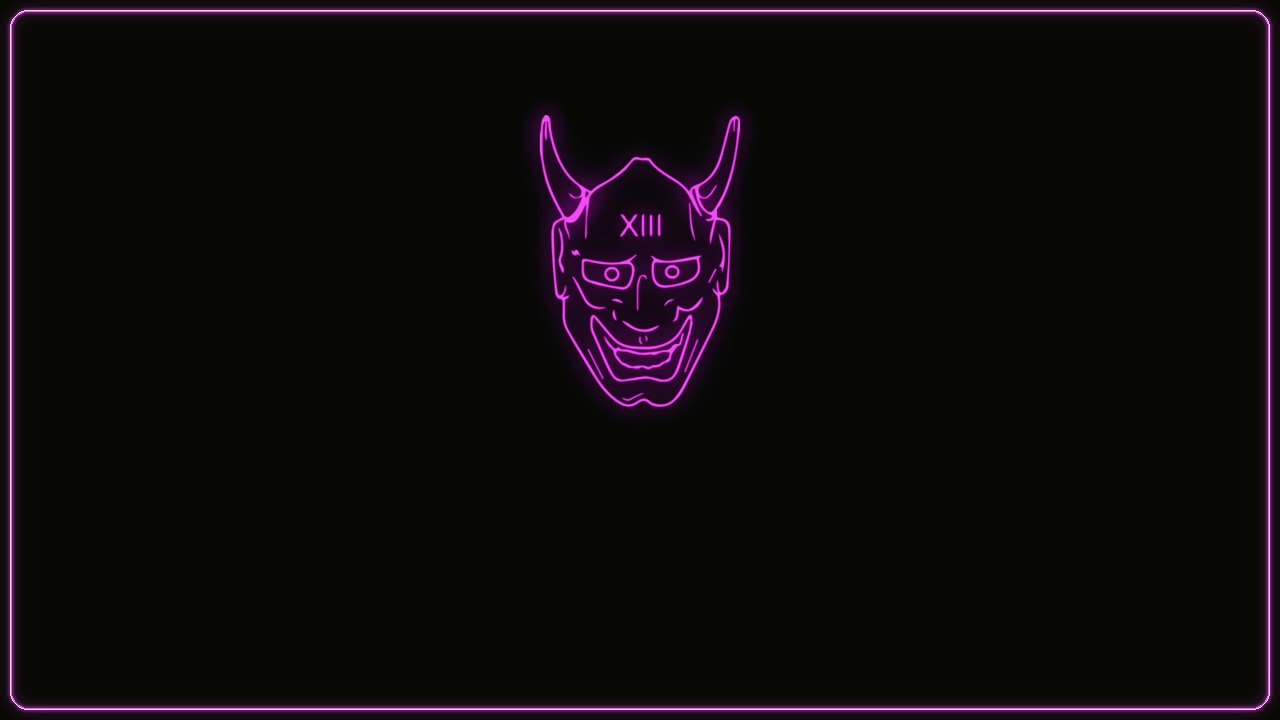
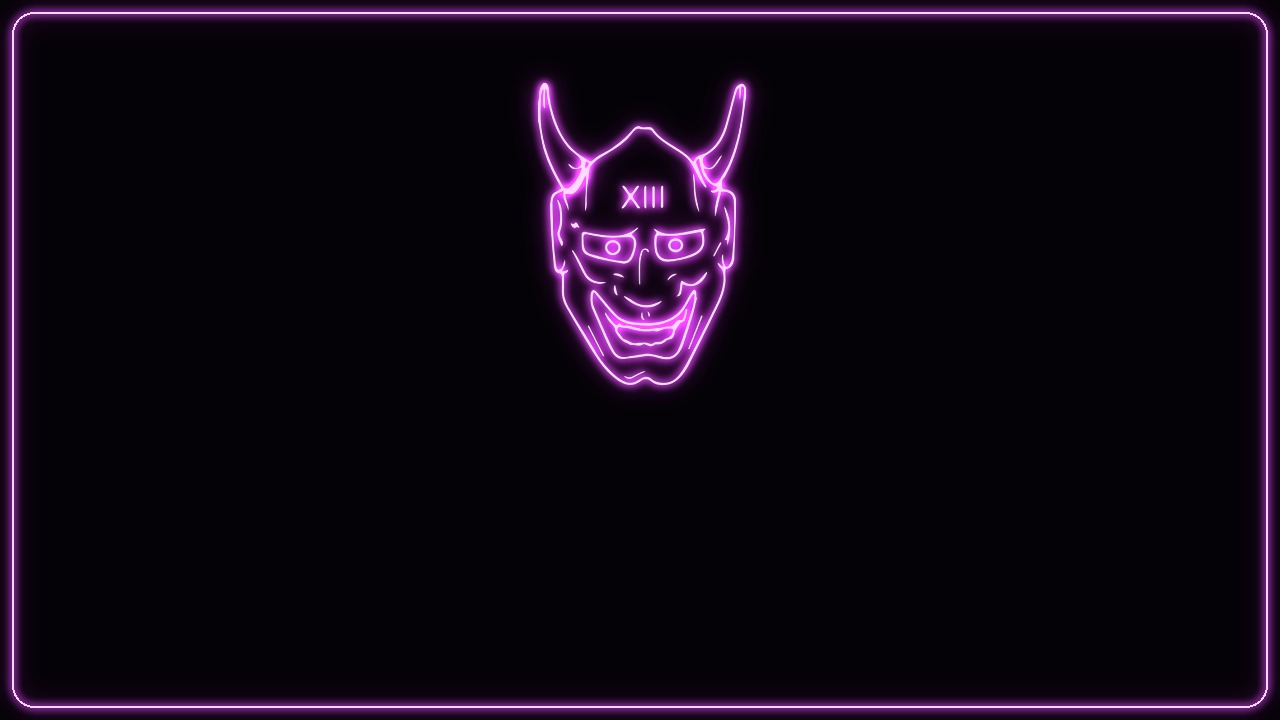
Launcher (fork): app_cards, plain named tiles; neon pills and focus after the three-layer rule
app_cards draws a tile as a flat colour with the app's name instead of its banner. With neon_color the pills
are dark with a thin neon edge, the focus glass loses its white sheen for a near-white tube, and the clock
gets a near-white core. The Ergo wallpaper is the mask's line only, near-white with a #D946EF glow.

Claude-Session: https://claude.ai/code/session_01XGgUyPyqoT6nJXhKqcCALF

Changed region(s): [[0.0, 0.0, 1.0, 1.0], [0.4062, 0.0917, 0.5938, 0.5806]]

diff --git a/launcher/app/src/main/java/com/gathin/tvhome/MainActivity.java b/launcher/app/src/main/java/com/gathin/tvhome/MainActivity.java
@@ -30,7 +30,6 @@ import android.graphics.drawable.BitmapDrawable;
 import android.graphics.drawable.ColorDrawable;
 import android.graphics.drawable.Drawable;
 import android.graphics.drawable.GradientDrawable;
-import android.graphics.drawable.LayerDrawable;
 import android.media.tv.TvContract;
 import android.media.tv.TvInputInfo;
 import android.media.tv.TvInputManager;
@@ -828,20 +827,30 @@ public class MainActivity extends Activity implements AppAdapter.TileListener {
         if (neon != 0) {
             int rgb = neon & 0xFFFFFF;
             // The tube's core is the colour lifted towards white; the glow round it is the colour itself.
-            int r = (((rgb >> 16) & 0xFF) + 255) / 2, g = (((rgb >> 8) & 0xFF) + 255) / 2, b = ((rgb & 0xFF) + 255) / 2;
-            clock.setTextColor(0xFF000000 | (r << 16) | (g << 8) | b);
-            clock.setShadowLayer(9 * density, 0, 0, 0xCC000000 | rgb);
+            // The tube: a near-white core, its colour only in the glow round it.
+            clock.setTextColor(0xFFFFF0FF);
+            clock.setShadowLayer(10 * density, 0, 0, 0xFF000000 | rgb);
             glass.setBaseAccent(neon);
+            // Pills: dark glass with a thin neon edge; focused, a near-white tube with a faint tint inside.
+            ColorStateList white = ColorStateList.valueOf(0xF2FFFFFF);
             for (int id : new int[]{R.id.btnInputs, R.id.btnWifi, R.id.btnSettings, R.id.btnReorder, R.id.btnLibraryTop}) {
                 View v = findViewById(id);
-                if (v == null) continue;
-                GradientDrawable rim = new GradientDrawable();
-                rim.setShape(GradientDrawable.RECTANGLE);
-                rim.setCornerRadius(21 * density);
-                rim.setColor(0);
-                rim.setStroke(Math.max(1, Math.round(density)), 0x80000000 | rgb);
-                Drawable bg = v.getBackground();
-                v.setBackground(bg == null ? rim : new LayerDrawable(new Drawable[]{bg, rim}));
+                if (!(v instanceof TextView)) continue;
+                GradientDrawable focusedBg = new GradientDrawable();
+                focusedBg.setCornerRadius(21 * density);
+                focusedBg.setColor(0x40000000 | rgb);
+                focusedBg.setStroke(Math.max(1, Math.round(1.5f * density)), 0xFFFFE4FF);
+                GradientDrawable plain = new GradientDrawable();
+                plain.setCornerRadius(21 * density);
+                plain.setColor(0xD90A040E);
+                plain.setStroke(Math.max(1, Math.round(density)), 0x80000000 | rgb);
+                android.graphics.drawable.StateListDrawable states = new android.graphics.drawable.StateListDrawable();
+                states.addState(new int[]{android.R.attr.state_focused}, focusedBg);
+                states.addState(new int[]{android.R.attr.state_activated}, focusedBg);
+                states.addState(new int[]{}, plain);
+                v.setBackground(states);
+                ((TextView) v).setTextColor(white);
+                ((TextView) v).setCompoundDrawableTintList(white);
             }
         }
         weatherPanelView = findViewById(R.id.weatherPanel);

diff --git a/launcher/app/src/main/java/com/gathin/tvhome/AppAdapter.java b/launcher/app/src/main/java/com/gathin/tvhome/AppAdapter.java
@@ -208,6 +208,9 @@ public class AppAdapter extends RecyclerView.Adapter<RecyclerView.ViewHolder> {
     private final boolean tileMenu;
     /** Tile names and bundled banners that replace the app's own (config.xml, app_labels and app_banners). */
     private final Map<String, String> appLabels, appBanners;
+    /** Ergo fork: app_cards, package -> colour of a plain named tile (TextBannerDrawable). */
+    private final Map<String, Integer> appCards;
+    private android.graphics.Typeface cardFont;
     private final List<Entry> items = new ArrayList<>();
 
     AppAdapter(Context ctx, TileListener listener, int dockSize, Config cfg) {
@@ -233,6 +236,7 @@ public class AppAdapter extends RecyclerView.Adapter<RecyclerView.ViewHolder> {
         this.tileMenu = cfg.tileMenu;
         this.appLabels = cfg.appLabels;
         this.appBanners = cfg.appBanners;
+        this.appCards = cfg.appCards;
         // Tiles keep their identity across reload(), so a focused tile stays on its app instead of
         // its view being rebound to whatever app now sits in that slot.
         setHasStableIds(true);
@@ -281,7 +285,8 @@ public class AppAdapter extends RecyclerView.Adapter<RecyclerView.ViewHolder> {
             String label = card != null ? card.label : Cards.cleanLabel(
                     appLabels.containsKey(pkg) ? appLabels.get(pkg) : String.valueOf(ri.loadLabel(pm)), pkg);
             if (!seen.add(pkg + '\n' + label)) continue;
-            Drawable banner = bundledBanner(appBanners.get(pkg));
+            Drawable banner = appCards.containsKey(pkg) ? textBanner(appCards.get(pkg), label) : null;
+            if (banner == null) banner = bundledBanner(appBanners.get(pkg));
             if (banner == null) banner = loadBanner(pm, ri);
             // The icon is only drawn (and sampled for the glow) when there is no banner, so a tile with a
             // banner skips loading and decoding it.
@@ -324,6 +329,17 @@ public class AppAdapter extends RecyclerView.Adapter<RecyclerView.ViewHolder> {
         items.clear();
         items.addAll(fresh);
         notifyDataSetChanged();
+    }
+
+    private Drawable textBanner(int color, String label) {
+        if (cardFont == null) {
+            try {
+                cardFont = ctx.getResources().getFont(R.font.outfit_medium);
+            } catch (RuntimeException e) {
+                cardFont = android.graphics.Typeface.DEFAULT_BOLD;
+            }
+        }
+        return new TextBannerDrawable(color, label, cardFont);
     }
 
     /** A banner_* drawable bundled with the launcher, or null for none or a name that is not one. */

diff --git a/launcher/app/src/main/java/com/gathin/tvhome/TextBannerDrawable.java b/launcher/app/src/main/java/com/gathin/tvhome/TextBannerDrawable.java
@@ -1,0 +1,69 @@
+package com.gathin.tvhome;
+
+import android.graphics.Canvas;
+import android.graphics.ColorFilter;
+import android.graphics.Paint;
+import android.graphics.PixelFormat;
+import android.graphics.Rect;
+import android.graphics.Typeface;
+import android.graphics.drawable.Drawable;
+
+/**
+ * Ergo fork (theme key app_cards): a calm tile in place of an app's own banner, a flat colour with the app's
+ * name in white, centred. Banners clash (a white YouTube slab, a noisy OTT picture); these keep the dock even.
+ * Drawn at banner proportions (16:9), so the tile's centreCrop scales it like a real banner.
+ */
+final class TextBannerDrawable extends Drawable {
+
+    static final int W = 320, H = 180;
+
+    private final int color;
+    private final String text;
+    private final Paint paint = new Paint(Paint.ANTI_ALIAS_FLAG);
+
+    TextBannerDrawable(int color, String text, Typeface typeface) {
+        this.color = color | 0xFF000000;
+        this.text = text;
+        paint.setColor(0xFFFFFFFF);
+        paint.setTextAlign(Paint.Align.CENTER);
+        if (typeface != null) paint.setTypeface(typeface);
+    }
+
+    @Override
+    public void draw(Canvas c) {
+        Rect b = getBounds();
+        c.drawColor(color);
+        // The name fills at most 80% of the width, at a size that reads at 3 m on a 32" set.
+        float size = b.height() * 0.2f;
+        paint.setTextSize(size);
+        float w = paint.measureText(text);
+        if (w > b.width() * 0.8f) paint.setTextSize(size * b.width() * 0.8f / w);
+        Paint.FontMetrics fm = paint.getFontMetrics();
+        c.drawText(text, b.exactCenterX(), b.exactCenterY() - (fm.ascent + fm.descent) / 2f, paint);
+    }
+
+    @Override
+    public int getIntrinsicWidth() {
+        return W;
+    }
+
+    @Override
+    public int getIntrinsicHeight() {
+        return H;
+    }
+
+    @Override
+    public void setAlpha(int alpha) {
+        paint.setAlpha(alpha);
+    }
+
+    @Override
+    public void setColorFilter(ColorFilter filter) {
+        paint.setColorFilter(filter);
+    }
+
+    @Override
+    public int getOpacity() {
+        return PixelFormat.OPAQUE;
+    }
+}

diff --git a/launcher/app/src/main/java/com/gathin/tvhome/GlassView.java b/launcher/app/src/main/java/com/gathin/tvhome/GlassView.java
@@ -47,6 +47,14 @@ public class GlassView extends View {
     /** A theme's neon: every reset to plain glass (setAccent(0)) lands on this colour instead. */
     void setBaseAccent(int argb) {
         baseAccent = argb;
+        // Neon: no white sheen over the tile, so its own colour shows; a near-white tube edge instead.
+        if (argb != 0) {
+            fill.setShader(null);
+            fill.setColor(0x0FFFFFFF);
+            specular.setShader(null);
+            specular.setColor(0);
+            rim.setStrokeWidth(2f * density);
+        }
         setAccent(0);
     }
 
@@ -63,7 +71,7 @@ public class GlassView extends View {
             // The rim is the accent lifted towards white, so the edge still reads as glass, not paint.
             int r = (((glowRgb >> 16) & 0xFF) + 255 * 2) / 3, g = (((glowRgb >> 8) & 0xFF) + 255 * 2) / 3,
                     b = ((glowRgb & 0xFF) + 255 * 2) / 3;
-            rim.setColor(0xE6000000 | (r << 16) | (g << 8) | b);
+            rim.setColor(argb == baseAccent ? 0xFFFFE4FF : 0xE6000000 | (r << 16) | (g << 8) | b);
         }
         invalidate();
     }
@@ -76,6 +84,7 @@ public class GlassView extends View {
     @Override
     protected void onSizeChanged(int w, int h, int oldw, int oldh) {
         super.onSizeChanged(w, h, oldw, oldh);
+        if (baseAccent != 0) return;   // neon keeps the flat fill set in setBaseAccent
         fill.setShader(new LinearGradient(0, 0, 0, h, 0x3DFFFFFF, 0x12FFFFFF, Shader.TileMode.CLAMP));
         specular.setShader(new LinearGradient(0, 0, 0, h * 0.45f, 0x66FFFFFF, 0x00FFFFFF, Shader.TileMode.CLAMP));
     }

diff --git a/launcher/app/src/main/java/com/gathin/tvhome/Config.java b/launcher/app/src/main/java/com/gathin/tvhome/Config.java
@@ -66,6 +66,8 @@ final class Config {
     int gridWidthDp;
     /** The rows under the dock stay invisible until focus moves down into them (hide_rows_below). */
     boolean hideRowsBelow;
+    /** app_cards: package -> tile colour; the tile shows that colour and the app's name instead of its banner. */
+    Map<String, Integer> appCards = Collections.emptyMap();
 
     /**
      * force_locale from the theme ("en"), or "" to follow the TV. Read before the activity has resources, so it
@@ -572,6 +574,15 @@ final class Config {
             cfg.weatherPlace = string(json, "weather_place", "");
             cfg.gridWidthDp = integer(json, "grid_width", 0, 400, 1600);
             cfg.hideRowsBelow = bool(json, "hide_rows_below", false);
+            Map<String, Integer> cards = new HashMap<>();
+            for (Map.Entry<String, String> e : packageMap(stringList(json, "app_cards", Collections.emptyList())).entrySet()) {
+                try {
+                    cards.put(e.getKey(), Color.parseColor(e.getValue()));
+                } catch (IllegalArgumentException ignored) {
+                    // a colour that does not parse leaves that app's own banner
+                }
+            }
+            cfg.appCards = cards;
         }
         return cfg;
     }

diff --git a/examples/ergo-32-cvte-hi3751v350/README.md b/examples/ergo-32-cvte-hi3751v350/README.md
@@ -56,4 +56,5 @@ This fork adds keys the upstream launcher ignores. Each is off unless a theme se
 | `force_locale` | language tag | Home in that language whatever the TV's (`en` keeps every glyph in Outfit, which has no Cyrillic) |
 | `grid_width` | 400 to 1600 | Width of the app grid in dp, centred; narrower columns pull the dock's tiles together (860 for four 180 dp tiles) |
 | `hide_rows_below` | bool | The rows under the dock (and the add-on cards in them) stay invisible until focus moves down into them |
+| `app_cards` | list of `"package=#RRGGBB"` | Tiles drawn as a flat colour with the app's name (from `app_labels` when set) instead of the app's own banner |
 | `weather_panel` | bool | A weather panel under the top-right buttons from Open-Meteo (no key), refreshed at most every 30 minutes while Home is on screen. Needs `weather_latitude` and `weather_longitude`; `weather_place` names the place. Adds the `INTERNET` permission, which upstream does not have |
